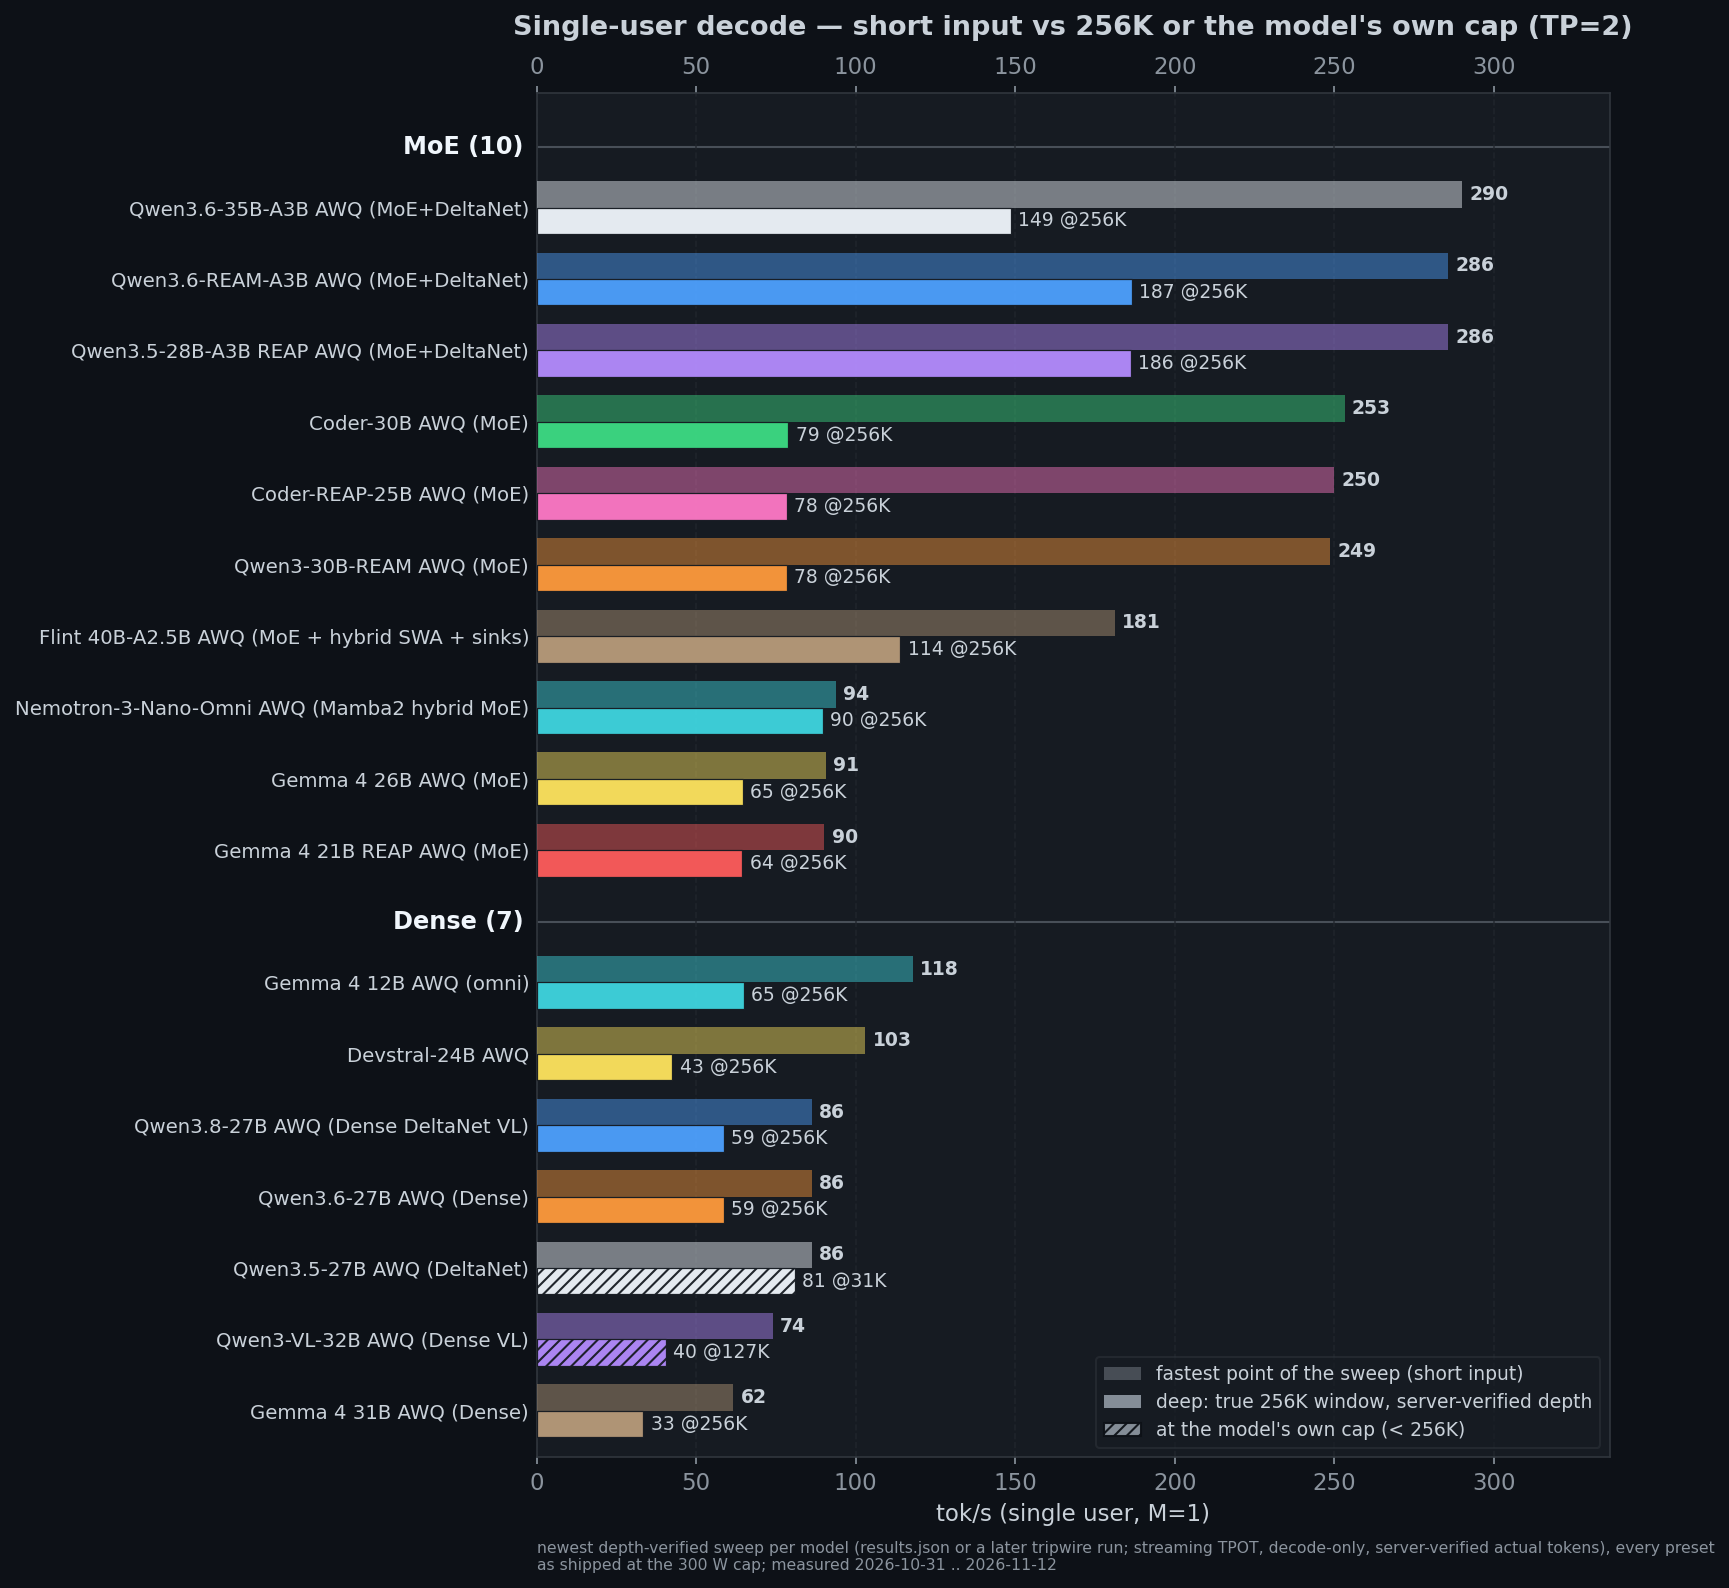
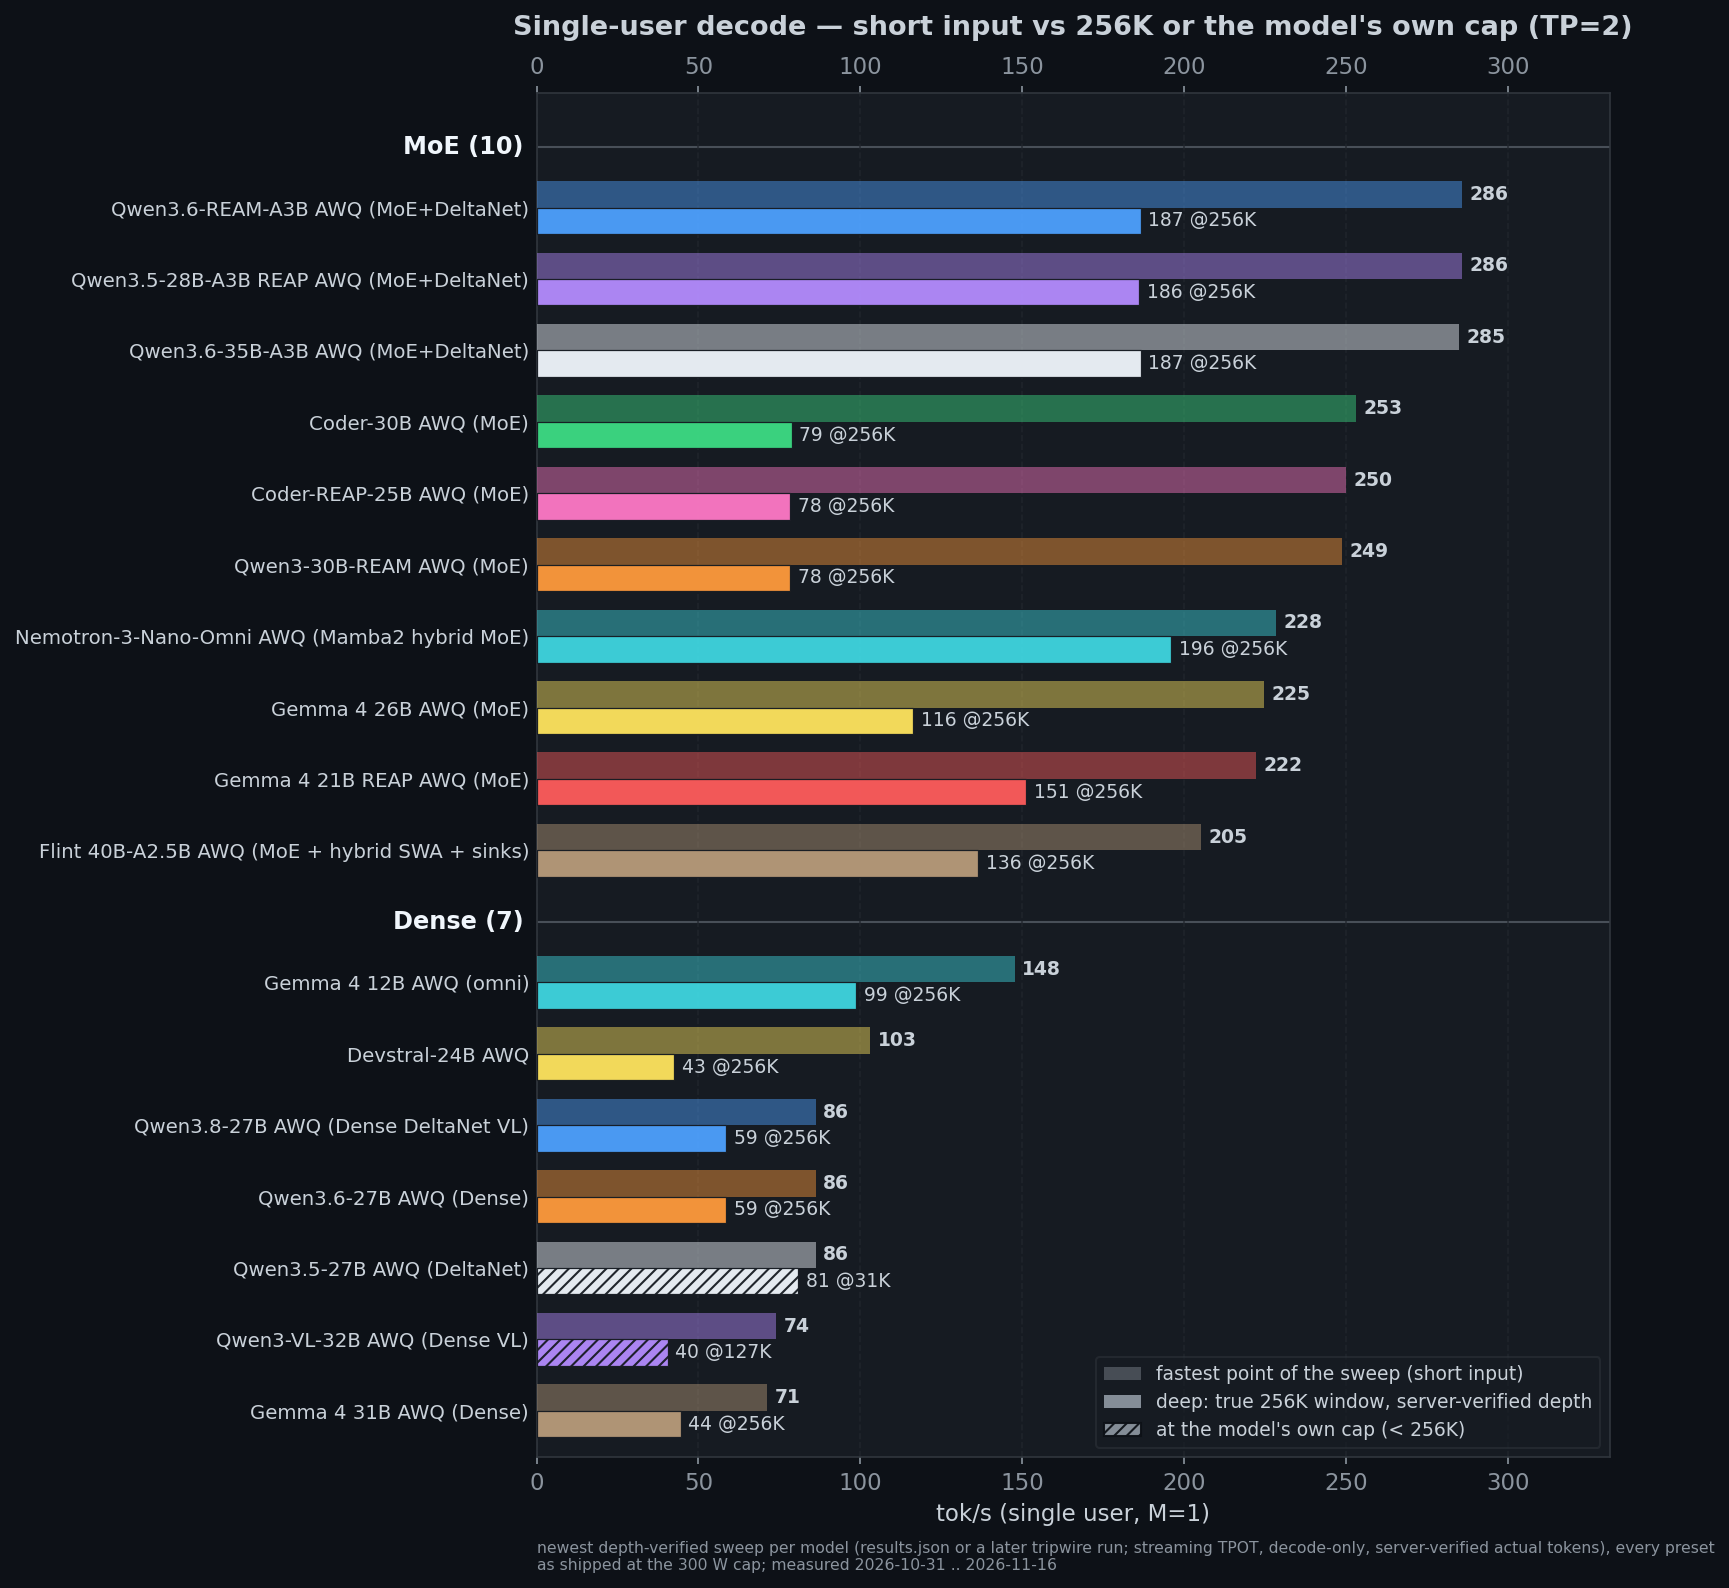
charts: spec-decode chart gains the gemma4-31b MTP rows, decode bars refreshed from today's tripwire runs; ledger: other Gemma presets with their assistants
specdec_comparison: Gemma 4 31B 72 -> 177 / 66 -> 174 / 55 -> 118 / 45 -> 80 tok/s at 1K / 32K / 131K / 256K.
all_models_decode: nemotron3-omni 228 -> 196, gemma4 225 -> 116, gemma4-21b-reap 222 -> 151 (plain arms).
Ledger: gemma4-12b + assistant 1.2-1.4x (first run, not shipped); gemma4-21b-reap +5..28 % only with the
MoE GEMV widened to the verify rows; gemma4 26B blocked by the verify tile on a bf16 KV. Issue #31.

Claude-Session: https://claude.ai/code/session_019JtCL6HrXSrD3iHQK41ZX6

diff --git a/docs/decode-levers.md b/docs/decode-levers.md
@@ -78,6 +78,7 @@ Step = 15.4 ms at 14.6K context = 55% of the pure-bandwidth roofline. The ranked
 
 Natural-prompt greedy ladder, 300 tokens, cold prefill per point, same session: plain 71.5 / 65.6 / 54.6 / 44.9 → **176.7 / 174.4 / 118.5 / 80.2 tok/s** at 1K / 32K / 131K / 256K (2.5× / 2.7× / 2.2× / 1.8×; accept 2.5–4.5 of 6, cycle 20.2 / 22.7 / 29.0 / 37.3 ms). At the default sampling temperature (T = 1.0, top-p 0.95, top-k 64): 213 / 203 vs 70 tok/s at 1K, 146 / 166 vs 64 at 33K (accept 3.4–4.1). Cycle anatomy at 244K before the tile and head changes: verify 34.2 ms (grouped stage 1 19.2, Marlin 10.1 — 6 rows cost what 1 does — INT8 head 0.84), draft loop 10.2 ms (one global-layer KV read per step 3.95, head 3.05, softmax 0.41); host time is ~1.4 ms per cycle. Gate, spec vs plain in one session: capabilities 5/5 both (thinking, tool call, image, video), MMLU 55 vs 54 of 57, HumanEval 30/30 both, natural-haystack needle 6/6 at 131K + 252K both, 256K reasoning 100 % at 32K / 131K / 256K both, cache-hit follow-up turns unchanged (224 vs 228 ms for 1 new token at 117K, 94 vs 99 ms at 29K, single-message mode). Not token-identical to plain greedy: 2 of 5 short prompts match; logprobs agree to < 0.01 nat and then shift by 0.03–0.12 nat at single positions (a verify row reads the block's own K/V in bf16, plain decode reads them back from the fp8 pool), the same class as a cache-hit vs fresh prefill. Receipts `benchmarks/profiling/gemma4-31b-mtp-profile-2026-11-16/`, `benchmarks/quality/gemma4-31b-mtp{gate,final}-*-2026-11-16.json`. Open: the verify stage-1 kernel is still 1.6× the decode kernel's cost for the same bytes (13 of 37 ms at 256K); the other Gemma 4 presets have assistants too.
 - **Agentic sample (first SWE-bench signal for `gemma4-31b`):** SWE-bench Lite first 30 ids, `omp`, docker-served with the MTP default: **18/30 resolved**, 29/30 non-empty patches, no walls or errors, rollouts 8,925 s in total (median 286 s). Same 30 ids on other presets: `flint` 20/30 in 13,165 s with its draft (17,246 s plain), `qwopus38` 18/30 in 24,069 s, `qwen38` (opencode) 19/30 in 26,053 s. In the fleet's band at n = 30, and the fastest through the slice. Receipt `benchmarks/quality/gemma4-31b-mtp-omp-sample-2026-11-16.json`.
+- **Other Gemma 4 presets with their assistants (first runs, flags from outside `launch.sh`, nothing shipped):** `gemma4-12b` (dense, `gemma-4-12B-it-assistant`, splits ≤ 80 for its 8 Q / 1 KV global shape): plain 146.4 / 136.3 / 117.0 / 98.3 → 197.6 / 190.8 / — / 118.9 tok/s at 1K / 32K / 131K / 256K (1.35× / 1.40× / 1.21×; accept 2.0–2.7; the 131K point fell into the checkpoint's repetition loop). `gemma4-21b-reap` with the 26B-A4B assistant: with the MoE GEMV limited to M = 1 the 6-row verify runs the Triton MoE kernel and loses (222 / 207 / 178 → 159 / 127 / 87); with `SGLANG_MOE_GEMV_INT4=8` it gains 256 / 264 / 186 (+16 % / +28 % / +5 %) — expert fan-out in the verify caps it at depth. `gemma4` (26B, bf16 KV): the 8 × 64 verify tile overflows shared memory on a bf16 KV at boot; needs its own tile. Receipts `/var/tmp/g12-mtp/` → `benchmarks/profiling/gemma4-31b-mtp-profile-2026-11-16/other-gemma/`.
 - **NULL — 7 draft steps / 8 verified tokens instead of 5 / 6** (two interleaved boots per arm, repeats within 0.5 %): the two extra steps add 1.9 ms per cycle at 1K and 2.9 ms at 131K. Short-context greedy, 500 tokens: JSON output 292 → 326 tok/s and a diff + file rewrite 252 → 277, but code generation 240 / 217 → 228 / 218, prose 163 / 139 → 155 / 121 and natural text at 131K 132 → 125. The trained horizon stays. Code-like output on the shipped 5 steps decodes at 217–293 tok/s (plain 71).
 - **NULL — prefill chunk 8192 instead of 4096:** cold TTFT 13.60 vs 13.65–13.71 s at 34K and 97.0 vs 96.8–97.6 s at 133K; 16384 runs out of memory in the first chunk. Cold prefill fits T(n) = 0.284 s per 1K tokens + 3.49 ms per (1K tokens)²: at 256K that is 73 s linear (W4A8 GEMMs, SWA attention, all-reduce) and 229 s of global-layer attention at ~47 TFLOPS per card against an ~85 TFLOPS cuBLAS peak. Receipts `benchmarks/profiling/gemma4-31b-mtp-profile-2026-11-16/horizon-chunk/`.
 
